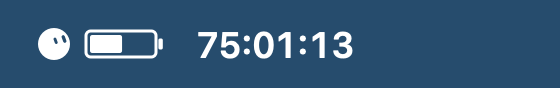
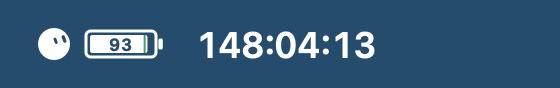
Add on-pace marker to battery

Changed region(s): [[0.3339, 0.3409, 0.6679, 0.6818], [0.1821, 0.3864, 0.2732, 0.6136]]

diff --git a/Tests/BatteryRendererTests.m b/Tests/BatteryRendererTests.m
@@ -12,6 +12,10 @@ static CGFloat AlphaAt(NSBitmapImageRep *rep, NSInteger x, NSInteger y) {
     return [[rep colorAtX:x y:y] alphaComponent];
 }
 
+static NSColor *ColorAt(NSBitmapImageRep *rep, NSInteger x, NSInteger y) {
+    return [[rep colorAtX:x y:y] colorUsingColorSpace:NSColorSpace.sRGBColorSpace];
+}
+
 static NSBitmapImageRep *BitmapForImage(NSImage *image) {
     CGImageRef cgImage = [image CGImageForProposedRect:NULL context:nil hints:nil];
     Assert(cgImage != NULL, @"renderer produces a bitmap image");
@@ -20,6 +24,18 @@ static NSBitmapImageRep *BitmapForImage(NSImage *image) {
 
 int main(void) {
     @autoreleasepool {
+        double day = 24.0 * 60.0 * 60.0;
+        Assert(fabs(GrokOnPacePercent(3.0 * day, 0.0, 7.0 * day) - (4.0 / 7.0 * 100.0)) < 0.000001,
+               @"pace uses the selected window's real seven-day duration");
+        Assert(fabs(GrokOnPacePercent(2.0 * day, 0.0, 10.0 * day) - 80.0) < 0.000001,
+               @"pace uses a non-weekly window's real duration");
+        Assert(GrokOnPacePercent(-day, 0.0, 7.0 * day) == 100.0,
+               @"pace clamps dates before the window to 100 percent");
+        Assert(GrokOnPacePercent(8.0 * day, 0.0, 7.0 * day) == 0.0,
+               @"pace clamps dates after reset to zero percent");
+        Assert(isnan(GrokOnPacePercent(day, day, day)),
+               @"pace is unavailable for an invalid zero-duration window");
+
         NSImage *empty = GrokBatteryIconWithLabel(nil, 0.0, @"50");
         NSImage *half = GrokBatteryIconWithLabel(nil, 50.0, @"50");
         NSImage *full = GrokBatteryIconWithLabel(nil, 100.0, @"50");
@@ -58,6 +74,59 @@ int main(void) {
                @"half battery punches out the label over its filled side");
         Assert(foundEmptySideGlyph,
                @"half battery keeps the label opaque over its empty side");
+
+        NSImage *paceLight = GrokBatteryIconWithOnPaceLine(nil, 50.0, @"", 25.0, NO);
+        NSImage *paceDark = GrokBatteryIconWithOnPaceLine(nil, 50.0, @"", 25.0, YES);
+        Assert(!paceLight.template && !paceDark.template,
+               @"colored pace batteries are not flattened into monochrome template images");
+        NSBitmapImageRep *paceLightRep = BitmapForImage(paceLight);
+        NSBitmapImageRep *paceDarkRep = BitmapForImage(paceDark);
+        NSInteger markerX = 35;
+        NSColor *lightMarker = ColorAt(paceLightRep, markerX, 9);
+        NSColor *darkMarker = ColorAt(paceDarkRep, markerX, 9);
+        Assert(lightMarker.greenComponent > lightMarker.redComponent,
+               @"light appearance retains the green pace marker");
+        Assert(darkMarker.greenComponent > darkMarker.redComponent,
+               @"dark appearance retains the green pace marker");
+
+        NSBitmapImageRep *opacityRep = BitmapForImage(
+            GrokBatteryIconWithOnPaceLine(nil, 0.0, @"", 50.0, NO));
+        NSColor *opacityMarker = ColorAt(opacityRep, 42, 9);
+        Assert(opacityMarker.alphaComponent >= 0.60 && opacityMarker.alphaComponent <= 0.70,
+               @"pace marker is approximately 65 percent opaque");
+        Assert(AlphaAt(opacityRep, 41, 9) < 0.05 && AlphaAt(opacityRep, 43, 9) < 0.05,
+               @"pace marker is one pixel wide");
+
+        NSImage *sampleIcon = [[NSImage alloc] initWithSize:NSMakeSize(18.0, 18.0)];
+        [sampleIcon lockFocus];
+        [NSColor.blackColor setFill];
+        NSRectFill(NSMakeRect(2.0, 2.0, 14.0, 14.0));
+        [sampleIcon unlockFocus];
+        sampleIcon.template = YES;
+        NSBitmapImageRep *darkIconRep = BitmapForImage(
+            GrokBatteryIconWithOnPaceLine(sampleIcon, 50.0, @"", 25.0, YES));
+        NSColor *darkIconPixel = ColorAt(darkIconRep, 9, 9);
+        Assert(darkIconPixel.alphaComponent > 0.9 && darkIconPixel.redComponent > 0.9,
+               @"dark appearance retains and lightens the supplied template icon");
+
+        NSImage *labelOverPace = GrokBatteryIconWithOnPaceLine(nil, 50.0, @"1", 50.0, NO);
+        NSImage *paceWithoutLabel = GrokBatteryIconWithOnPaceLine(nil, 50.0, @"", 50.0, NO);
+        NSBitmapImageRep *labelOverPaceRep = BitmapForImage(labelOverPace);
+        NSBitmapImageRep *paceWithoutLabelRep = BitmapForImage(paceWithoutLabel);
+        BOOL foundMaskedMarkerPixel = NO;
+        for (NSInteger x = 41; x <= 44 && !foundMaskedMarkerPixel; x++) {
+            for (NSInteger y = 5; y <= 12; y++) {
+                NSColor *withoutLabel = ColorAt(paceWithoutLabelRep, x, y);
+                NSColor *withLabel = ColorAt(labelOverPaceRep, x, y);
+                if (withoutLabel.greenComponent > withoutLabel.redComponent &&
+                    withLabel.alphaComponent + 0.1 < withoutLabel.alphaComponent) {
+                    foundMaskedMarkerPixel = YES;
+                    break;
+                }
+            }
+        }
+        Assert(foundMaskedMarkerPixel,
+               @"percentage glyph masks the pace marker where they overlap");
         NSLog(@"BatteryRendererTests passed");
     }
     return 0;

diff --git a/Sources/GrokUsageMenuBar/BatteryRenderer.m b/Sources/GrokUsageMenuBar/BatteryRenderer.m
@@ -2,14 +2,40 @@
 
 #import <math.h>
 
-NSImage *GrokBatteryIconWithLabel(NSImage *grokIcon, double percent, NSString *label) {
+double GrokOnPacePercent(NSTimeInterval now,
+                         NSTimeInterval periodStart,
+                         NSTimeInterval reset) {
+    double duration = reset - periodStart;
+    double remaining = reset - now;
+    if (!isfinite(now) || !isfinite(periodStart) || !isfinite(reset) || duration <= 0.0) {
+        return NAN;
+    }
+    return MAX(0.0, MIN(100.0, (remaining / duration) * 100.0));
+}
+
+static NSImage *BatteryIcon(NSImage *grokIcon,
+                            double percent,
+                            NSString *label,
+                            double onPacePercent,
+                            BOOL darkAppearance) {
     double clamped = MAX(0.0, MIN(100.0, percent));
+    BOOL showsOnPaceLine = isfinite(onPacePercent);
     NSImage *image = [[NSImage alloc] initWithSize:NSMakeSize(67.0, 18.0)];
     [image lockFocus];
 
-    [NSColor.blackColor set];
+    NSColor *foreground = showsOnPaceLine
+        ? (darkAppearance ? NSColor.whiteColor : NSColor.blackColor)
+        : NSColor.blackColor;
+    [foreground set];
     if (grokIcon != nil) {
-        [grokIcon drawInRect:NSMakeRect(0.0, 0.0, 18.0, 18.0)];
+        NSImage *drawableIcon = [grokIcon copy];
+        drawableIcon.template = NO;
+        [drawableIcon drawInRect:NSMakeRect(0.0, 0.0, 18.0, 18.0)];
+        if (showsOnPaceLine) {
+            [foreground setFill];
+            NSRectFillUsingOperation(NSMakeRect(0.0, 0.0, 18.0, 18.0),
+                                     NSCompositingOperationSourceAtop);
+        }
     }
 
     NSRect body = NSMakeRect(25.0, 2.5, 35.0, 13.0);
@@ -30,17 +56,31 @@ NSImage *GrokBatteryIconWithLabel(NSImage *grokIcon, double percent, NSString *l
         [fillPath fill];
     }
 
+    if (showsOnPaceLine) {
+        CGFloat pace = MAX(0.0, MIN(100.0, onPacePercent));
+        NSRect interior = NSMakeRect(body.origin.x + 2.0, body.origin.y + 2.0,
+                                     available, body.size.height - 4.0);
+        CGFloat markerX = NSMinX(interior) + interior.size.width * (pace / 100.0);
+        markerX = MAX(NSMinX(interior) + 0.5, MIN(NSMaxX(interior) - 0.5, markerX));
+        NSRect marker = NSMakeRect(markerX - 0.5, NSMinY(interior), 1.0, NSHeight(interior));
+        [NSGraphicsContext saveGraphicsState];
+        [[NSBezierPath bezierPathWithRoundedRect:interior xRadius:1.1 yRadius:1.1] addClip];
+        [[[NSColor systemGreenColor] colorWithAlphaComponent:0.65] setFill];
+        NSRectFill(marker);
+        [NSGraphicsContext restoreGraphicsState];
+    }
+
     NSDictionary *attributes = @{
         NSFontAttributeName: [NSFont monospacedDigitSystemFontOfSize:8.5 weight:NSFontWeightSemibold],
-        NSForegroundColorAttributeName: NSColor.blackColor
+        NSForegroundColorAttributeName: foreground
     };
     NSSize labelSize = [label sizeWithAttributes:attributes];
     NSPoint labelPoint = NSMakePoint(NSMidX(body) - labelSize.width / 2.0,
                                      NSMidY(body) - labelSize.height / 2.0 - 0.5);
 
-    // Template images are tinted as a single color by macOS. Keep the label opaque
-    // over the empty area, then punch it out over the fill so each side always has
-    // the opposite menu-bar color and remains readable in light and dark modes.
+    // Draw the percentage last so its glyphs mask both the fill and the pace marker.
+    // Over the empty area the opaque foreground remains readable; over the fill the
+    // glyph is punched out to reveal the menu-bar color beneath it.
     [label drawAtPoint:labelPoint withAttributes:attributes];
     if (fillPath != nil) {
         [NSGraphicsContext saveGraphicsState];
@@ -51,8 +91,20 @@ NSImage *GrokBatteryIconWithLabel(NSImage *grokIcon, double percent, NSString *l
     }
 
     [image unlockFocus];
-    image.template = YES;
+    image.template = !showsOnPaceLine;
     return image;
+}
+
+NSImage *GrokBatteryIconWithLabel(NSImage *grokIcon, double percent, NSString *label) {
+    return BatteryIcon(grokIcon, percent, label, NAN, NO);
+}
+
+NSImage *GrokBatteryIconWithOnPaceLine(NSImage *grokIcon,
+                                      double percent,
+                                      NSString *label,
+                                      double onPacePercent,
+                                      BOOL darkAppearance) {
+    return BatteryIcon(grokIcon, percent, label, onPacePercent, darkAppearance);
 }
 
 NSImage *GrokBatteryIcon(NSImage *grokIcon, double percent) {

diff --git a/Sources/GrokUsageMenuBar/main.m b/Sources/GrokUsageMenuBar/main.m
@@ -97,6 +97,39 @@ static NSTimeInterval const DefaultRefreshIntervalSeconds = 60.0;
     return GrokBatteryIcon(self.grokIcon, percent);
 }
 
+- (BOOL)usesDarkMenuBarAppearance {
+    NSAppearance *appearance = self.statusItem.button.effectiveAppearance ?: NSApp.effectiveAppearance;
+    NSAppearanceName match = [appearance bestMatchFromAppearancesWithNames:@[
+        NSAppearanceNameAqua,
+        NSAppearanceNameDarkAqua
+    ]];
+    return [match isEqualToString:NSAppearanceNameDarkAqua];
+}
+
+- (double)onPacePercentForState:(NSDictionary *)state now:(NSDate *)now {
+    NSNumber *start = state[@"period_started_at"];
+    NSNumber *reset = state[@"resets_at"];
+    if (![start respondsToSelector:@selector(doubleValue)] ||
+        ![reset respondsToSelector:@selector(doubleValue)]) {
+        return NAN;
+    }
+    return GrokOnPacePercent(now.timeIntervalSince1970,
+                             start.doubleValue,
+                             reset.doubleValue);
+}
+
+- (NSImage *)batteryIconForLeftPercent:(double)percent
+                                  state:(NSDictionary *)state
+                                    now:(NSDate *)now {
+    return GrokBatteryIconWithOnPaceLine(
+        self.grokIcon,
+        percent,
+        [NSString stringWithFormat:@"%.0f", MAX(0.0, MIN(100.0, percent))],
+        [self onPacePercentForState:state now:now],
+        [self usesDarkMenuBarAppearance]
+    );
+}
+
 - (BOOL)renderPreviewAtPath:(NSString *)path error:(NSError **)error {
     if (self.grokIcon == nil) {
         self.grokIcon = [self makeGrokIcon];
@@ -110,21 +143,22 @@ static NSTimeInterval const DefaultRefreshIntervalSeconds = 60.0;
         return NO;
     }
 
-    NSImage *battery = [self batteryIconForPercent:[state[@"left_percent"] doubleValue]];
+    double leftPercent = [state[@"left_percent"] doubleValue];
+    double onPacePercent = [self onPacePercentForState:state now:NSDate.date];
+    NSImage *battery = GrokBatteryIconWithOnPaceLine(
+        self.grokIcon,
+        leftPercent,
+        [NSString stringWithFormat:@"%.0f", MAX(0.0, MIN(100.0, leftPercent))],
+        onPacePercent,
+        YES
+    );
     NSString *countdown = [self countdownText:state] ?: @"--:--";
     NSImage *canvas = [[NSImage alloc] initWithSize:NSMakeSize(280.0, 44.0)];
     [canvas lockFocus];
     [[NSColor colorWithCalibratedRed:0.075 green:0.235 blue:0.365 alpha:1.0] setFill];
     NSRectFill(NSMakeRect(0.0, 0.0, 280.0, 44.0));
 
-    NSImage *tintedBattery = [[NSImage alloc] initWithSize:battery.size];
-    [tintedBattery lockFocus];
-    [battery drawInRect:NSMakeRect(0.0, 0.0, battery.size.width, battery.size.height)];
-    [NSColor.whiteColor setFill];
-    NSRectFillUsingOperation(NSMakeRect(0.0, 0.0, battery.size.width, battery.size.height),
-                             NSCompositingOperationSourceAtop);
-    [tintedBattery unlockFocus];
-    [tintedBattery drawInRect:NSMakeRect(18.0, 13.0, 67.0, 18.0)];
+    [battery drawInRect:NSMakeRect(18.0, 13.0, 67.0, 18.0)];
 
     NSDictionary *attributes = @{
         NSFontAttributeName: [NSFont monospacedDigitSystemFontOfSize:18.0 weight:NSFontWeightSemibold],
@@ -278,7 +312,11 @@ static NSTimeInterval const DefaultRefreshIntervalSeconds = 60.0;
     }
 
     if ([[self displayMode] isEqualToString:DisplayModeBattery]) {
-        self.statusItem.button.image = [self batteryIconForPercent:metric];
+        if ([[self metricMode] isEqualToString:MetricModeLeft]) {
+            self.statusItem.button.image = [self batteryIconForLeftPercent:metric state:state now:NSDate.date];
+        } else {
+            self.statusItem.button.image = [self batteryIconForPercent:metric];
+        }
         self.statusItem.button.title = [@" " stringByAppendingString:time];
     } else {
         self.statusItem.button.image = self.grokIcon;

diff --git a/Sources/GrokUsageMenuBar/BatteryRenderer.h b/Sources/GrokUsageMenuBar/BatteryRenderer.h
@@ -2,9 +2,18 @@
 
 NS_ASSUME_NONNULL_BEGIN
 
+FOUNDATION_EXPORT double GrokOnPacePercent(NSTimeInterval now,
+                                           NSTimeInterval periodStart,
+                                           NSTimeInterval reset);
+
 NSImage *GrokBatteryIcon(NSImage * _Nullable grokIcon, double percent);
 NSImage *GrokBatteryIconWithLabel(NSImage * _Nullable grokIcon,
                                   double percent,
                                   NSString *label);
+NSImage *GrokBatteryIconWithOnPaceLine(NSImage * _Nullable grokIcon,
+                                      double percent,
+                                      NSString *label,
+                                      double onPacePercent,
+                                      BOOL darkAppearance);
 
 NS_ASSUME_NONNULL_END

diff --git a/README.md b/README.md
@@ -3,15 +3,22 @@
 A tiny native macOS menu-bar app that shows how much of your weekly Cursor **Grok Bot** allowance remains and when it resets.
 
 <p>
-  <img src="assets/menu-bar-preview.png" alt="Grok Usage Menu Bar showing a battery and reset countdown" width="280">
+  <img src="assets/menu-bar-preview.png" alt="Grok Usage Menu Bar showing 93 percent left, a green on-pace marker, and a reset countdown" width="280">
 </p>
 
-The default layout matches the companion Codex widget: a monochrome Grok icon, a battery showing usage left, and a live countdown to the weekly reset. The icon is a macOS template image, so it automatically follows the menu bar's light or dark appearance.
+The default layout matches the companion Codex widget: a Grok icon, a battery showing usage left, and a live countdown to the weekly reset. It follows both light and dark menu-bar appearances.
+
+The subtle green line inside the battery is the **on-pace marker**. It shows how much quota would remain if usage were spread evenly across the selected window:
+
+`on-pace % left = (time until reset / window duration) × 100`
+
+The app uses Cursor's real period start and reset timestamps—not an assumed seven-day duration—so the marker remains accurate for shortened or extended windows. If the battery fill ends to the right of the line, more quota remains than an even pace would predict. The marker appears only with **Show Battery** + **Show % Left**; the percentage is always drawn above it so the number stays readable.
 
 ## Features
 
 - Battery or percentage display
 - Percentage left or used
+- On-pace marker based on the selected window's actual duration
 - Live countdown or reset clock time
 - Refresh every 30 seconds, 1 minute, 3 minutes, or 5 minutes
 - One-click access to the Cursor dashboard
